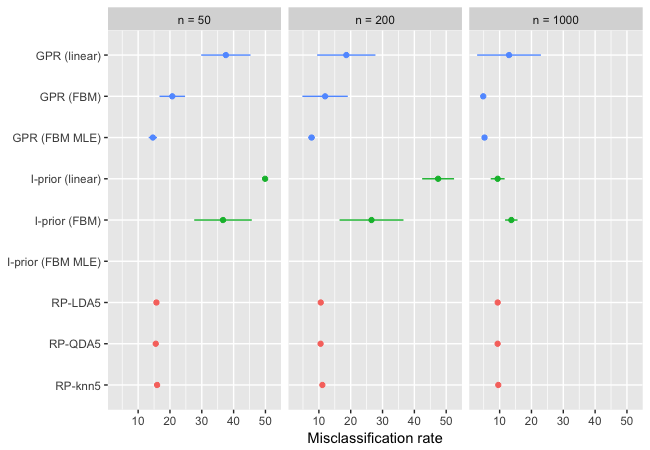
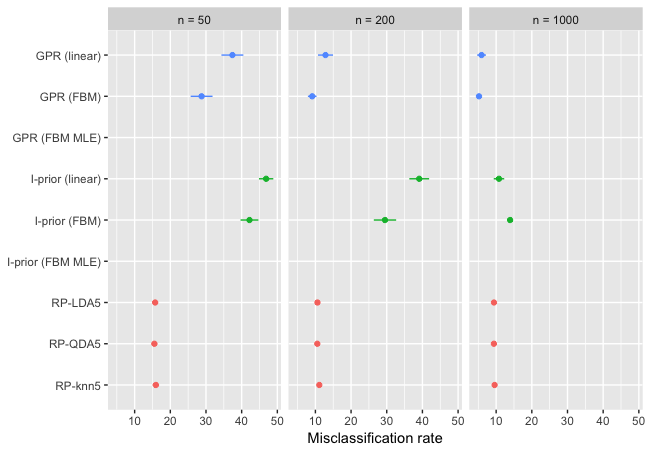
Gisette data

diff --git a/README.md b/README.md
@@ -112,19 +112,17 @@ In reference to [1], we compare the peformance of binary classification using Ga
 
 ## Handwritten digits (N = 1,500, p = 5000)
 
-*Notes: Results are preliminary*
-
 |                  |       n = 50|      n = 200|     n = 1000| Rank|
 |:-----------------|------------:|------------:|------------:|----:|
-|GPR (linear)      | 37.57 (3.96)| 18.61 (4.68)| 12.95 (5.11)|    7|
-|GPR (FBM)         | 20.73 (2.05)| 11.95 (3.64)|  4.85 (0.29)|    4|
-|GPR (FBM MLE)     | 14.62 (0.67)|  7.70 (0.54)|  5.25 (0.35)|    1|
-|I-prior (linear)  | 49.89 (0.30)| 47.46 (2.56)|  9.38 (1.12)|    8|
-|I-prior (FBM)     | 36.67 (4.62)| 26.53 (5.13)| 13.67 (1.00)|    6|
+|GPR (linear)      | 37.40 (1.57)| 12.83 (1.08)|  5.91 (0.63)|    4|
+|GPR (FBM)         | 28.77 (1.57)|  9.11 (0.62)|  5.19 (0.09)|    1|
+|GPR (FBM MLE)     |           NA|           NA|           NA|    8|
+|I-prior (linear)  | 46.86 (1.03)| 39.10 (1.42)| 10.80 (0.75)|    7|
+|I-prior (FBM)     | 42.19 (1.28)| 29.51 (1.60)| 13.91 (0.39)|    6|
 |I-prior (FBM MLE) |           NA|           NA|           NA|    9|
 |RP-LDA5           | 15.75 (0.41)| 10.58 (0.17)|  9.39 (0.15)|    3|
-|RP-QDA5           | 15.53 (0.40)| 10.53 (0.19)|  9.37 (0.16)|    2|
-|RP-knn5           | 15.95 (0.46)| 11.09 (0.17)|  9.57 (0.16)|    5|
+|RP-QDA5           | 15.53 (0.40)| 10.53 (0.19)|  9.37 (0.16)|    1|
+|RP-knn5           | 15.95 (0.46)| 11.09 (0.17)|  9.57 (0.16)|    4|
 
 ![](figure/gisette.png)
 
